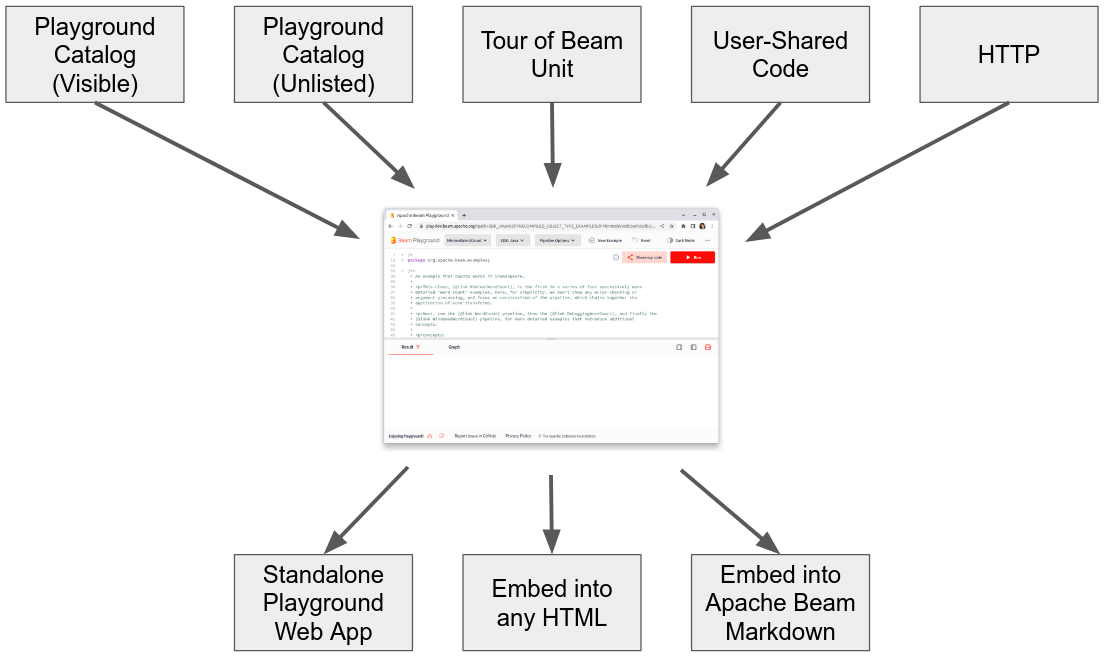
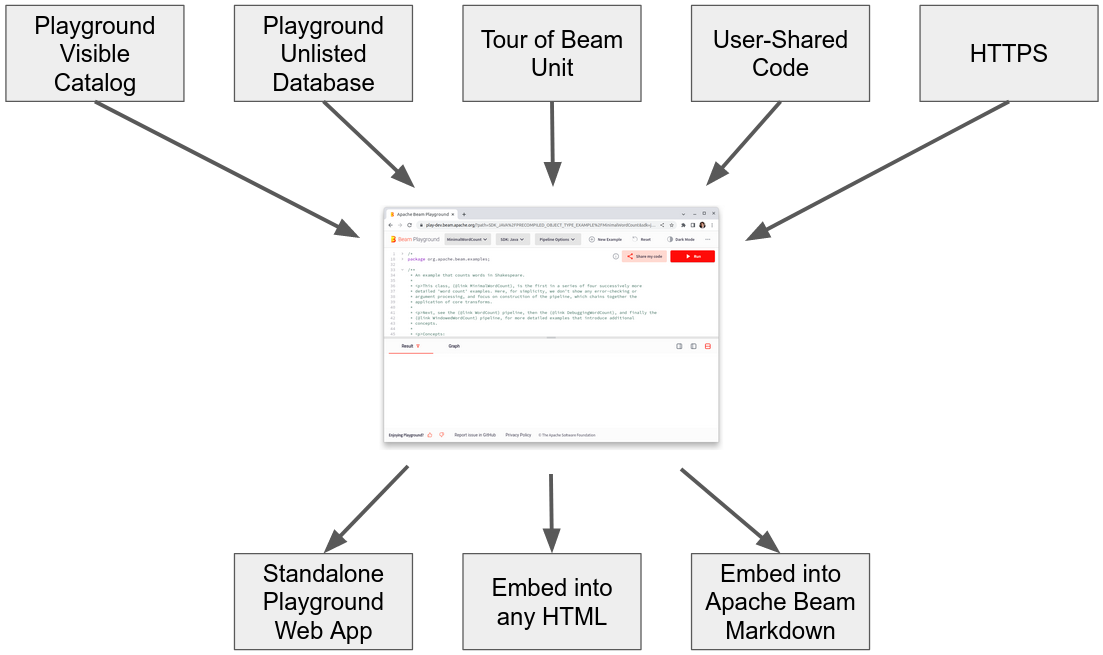
Minor README changes (#25506)

diff --git a/playground/get_your_code.md b/playground/get_your_code.md
@@ -16,36 +16,36 @@ They can be combined, e.g.
 
 # Table of Contents
 - [Step 1. Prepare Your Code](#step-1-prepare-your-code)
-    * [Named Sections](#named-sections)
-- [Step 2. Place Your Code](#step-2-place-your-code)
-    * [Playground Visible Catalog](#playground-visible-catalog)
-        + [1. Put the file to the directory](#1-put-the-file-to-the-directory)
-        + [2. Add metadata](#2-add-metadata)
-        + [3. Make a PR](#3-make-a-pr)
-        + [4. Save the snippet path](#4-save-the-snippet-path)
-    * [Playground Unlisted Database](#playground-unlisted-database)
-    * [Tour of Beam unit](#tour-of-beam-unit)
-    * [User-shared Code](#user-shared-code)
-    * [HTTPS](#https)
+  * [Named Sections](#named-sections)
+- [Step 2. Place your code somewhere the Playground can load it from](#step-2-place-your-code-somewhere-the-playground-can-load-it-from)
+  * [Playground Visible Catalog](#playground-visible-catalog)
+    + [1. Put the file to the directory](#1-put-the-file-to-the-directory)
+    + [2. Add metadata](#2-add-metadata)
+    + [3. Make a PR](#3-make-a-pr)
+    + [4. Save the snippet path](#4-save-the-snippet-path)
+  * [Playground Unlisted Database](#playground-unlisted-database)
+  * [Tour of Beam unit](#tour-of-beam-unit)
+  * [User-shared Code](#user-shared-code)
+  * [HTTPS](#https)
 - [Step 3. Create a link or embed](#step-3-create-a-link-or-embed)
-    * [Direct Link to the Standalone Playground Web App](#direct-link-to-the-standalone-playground-web-app)
-        + [1. Playground Visible Catalog](#1-playground-visible-catalog)
-        + [2. Playground Unlisted Database](#2-playground-unlisted-database)
-        + [3. Tour of Beam Unit](#3-tour-of-beam-unit)
-        + [4. User-shared Code](#4-user-shared-code)
-        + [5. HTTPS](#5-https)
-        + [6. Empty Editor](#6-empty-editor)
-        + [Passing View Options](#passing-view-options)
-            - [Read-only sections](#read-only-sections)
-            - [Folding everything except sections](#folding-everything-except-sections)
-            - [Hiding everything except a section](#hiding-everything-except-a-section)
-        + [Linking to multiple examples](#linking-to-multiple-examples)
-        + [Embedded vs Standalone Playground URLs](#embedded-vs-standalone-playground-urls)
-    * [Embed into HTML](#embed-into-html)
-        + [1. Playground Visible Catalog](#1-playground-visible-catalog-1)
-        + [2. User-shared Code](#2-user-shared-code)
-        + [3. All Other Code Sources](#3-all-other-code-sources)
-    * [Embedding into the Beam documentation](#embedding-into-the-beam-documentation)
+  * [Direct Link to the Standalone Playground Web App](#direct-link-to-the-standalone-playground-web-app)
+    + [1. Link for a snippet from Playground Visible Catalog](#1-link-for-a-snippet-from-playground-visible-catalog)
+    + [2. Link for a snippet from Playground Unlisted Database](#2-link-for-a-snippet-from-playground-unlisted-database)
+    + [3. Link for a Tour of Beam Unit](#3-link-for-a-tour-of-beam-unit)
+    + [4. Link for User-shared Code](#4-link-for-user-shared-code)
+    + [5. Link for an HTTPS-served snippet](#5-link-for-an-https-served-snippet)
+    + [6. Link to an empty editor](#6-link-to-an-empty-editor)
+    + [Passing View Options](#passing-view-options)
+      - [Read-only sections](#read-only-sections)
+      - [Folding everything except sections](#folding-everything-except-sections)
+      - [Hiding everything except a section](#hiding-everything-except-a-section)
+    + [Linking to multiple examples](#linking-to-multiple-examples)
+    + [Embedded vs Standalone Playground URLs](#embedded-vs-standalone-playground-urls)
+  * [Embed into HTML](#embed-into-html)
+    + [1. Embed a snippet from Playground Visible Catalog](#1-embed-a-snippet-from-playground-visible-catalog)
+    + [2. Embed User-shared Code](#2-embed-user-shared-code)
+    + [3. Embed a snippet from any other source](#3-embed-a-snippet-from-any-other-source)
+  * [Embedding into the Beam documentation](#embedding-into-the-beam-documentation)
 
 
 ## Step 1. Prepare Your Code
@@ -82,7 +82,7 @@ that Playground uses.
 
 Create a named section for each part of your code that you want that features for.
 
-## Step 2. Place Your Code
+## Step 2. Place your code somewhere the Playground can load it from
 
 ### Playground Visible Catalog
 
@@ -137,7 +137,7 @@ The following optional attributes are supported:
 |-|-|-|
 | `categories` | Titles of categories to list this snippet in. Non-existent categories will be created. | Array of strings |
 | `complexity` | How hard is the snippet to understand. | `BASIC`, `MEDIUM`, `ADVANCED` |
-| `context_line` | The line number to scroll to when the snippet is loaded. This applies after the metadata block is removed from the file. | Integer, 1-based |
+| `context_line` | The line number to scroll to when the snippet is loaded. This applies after the metadata block is removed from the file, so discount for those lines. | Integer, 1-based |
 | `default_example` | Whether this is the default example in its SDK. If multiple snippets set this to `true` the behavior is undefined. | `false` (default), `true` |
 | `tags` | Tags by which this snippet can be found in the dropdown. | Array of strings |
 
@@ -245,7 +245,7 @@ Drawbacks:
 - No cached output and graph.
 
 For Playground to be able to load the snippet over HTTPS,
-your server need to allow the access by sending the following header:
+your server needs to allow the access by sending the following header:
 
 ```
 Access-Control-Allow-Origin: *
@@ -257,8 +257,8 @@ at least when requested with `*.beam.apache.org` as
 To understand the reasons, read about
 [CORS (Cross-Origin Resource Sharing)](https://developer.mozilla.org/en-US/docs/Web/HTTP/CORS).
 
-The most convenient hosting for snippets is your GitHub repository.
-GitHub is known to allow such access on direct links to raw file content.
+Many people prefer to host their snippets in their GitHub repositories.
+GitHub is known to allow cross-origin access on direct links to raw file content.
 
 ## Step 3. Create a link or embed
 
@@ -270,7 +270,7 @@ Choose any of the following ways.
 You can link to the Playground app so that it opens your code. The link depends on
 where you placed the code.
 
-#### 1. Playground Visible Catalog
+#### 1. Link for a snippet from Playground Visible Catalog
 
 1. Open your snippet in the dropdown menu.
 2. Without changing it, click "Share my code".
@@ -290,17 +290,17 @@ A special case is the default snippet for an SDK. It can be loaded by the follow
 This way if another snippet is ever made default, the links you shared will lead
 to the new snippet.
 
-#### 2. Playground Unlisted Database
+#### 2. Link for a snippet from Playground Unlisted Database
 
 The code can be accessed with the same link as with Playground Visible Catalog.
 Since the snippet is unlisted, you cannot select it in the dropdown and so you should
 manually edit the link. Use the example above and replace the `path` and `sdk` with yours.
 
-#### 3. Tour of Beam Unit
+#### 3. Link for a Tour of Beam Unit
 
 **TODO**
 
-#### 4. User-shared Code
+#### 4. Link for User-shared Code
 
 You get the link when you click "Share my code" button. It is in the following format:
 
@@ -308,7 +308,7 @@ You get the link when you click "Share my code" button. It is in the following f
 https://play.beam.apache.org/?sdk=java&shared=SNIPPET_ID
 ```
 
-#### 5. HTTPS
+#### 5. Link for an HTTPS-served snippet
 
 Add the URL to the `url` parameter, for example:
 
@@ -316,7 +316,7 @@ Add the URL to the `url` parameter, for example:
 https://play.beam.apache.org/?sdk=go&url=https://raw.githubusercontent.com/golang/go/master/src/fmt/format.go
 ```
 
-#### 6. Empty Editor
+#### 6. Link to an empty editor
 
 You can link to an empty editor to make uses start their snippets from scratch:
 
@@ -407,21 +407,21 @@ Additionally the Embedded playground supports the following parameters:
 
 ### Embed into HTML
 
-#### 1. Playground Visible Catalog
+#### 1. Embed a snippet from Playground Visible Catalog
 
 1. Open your snippet in the dropdown menu.
 2. Without changing it, click "Share my code".
 3. Go to "Embed" tab.
 4. Copy the HTML code.
 
-#### 2. User-shared Code
+#### 2. Embed User-shared Code
 
 1. Open your code by the link that you got when you shared it.
 2. Again click "Share my code".
 3. Go to "Embed" tab.
 4. Copy the HTML code.
 
-#### 3. All Other Code Sources
+#### 3. Embed a snippet from any other source
 
 1. Follow the instructions to get a link to your code.
 2. Optionally make the link to the Embedded Playground by replacing `beam.apache.org/?...`
